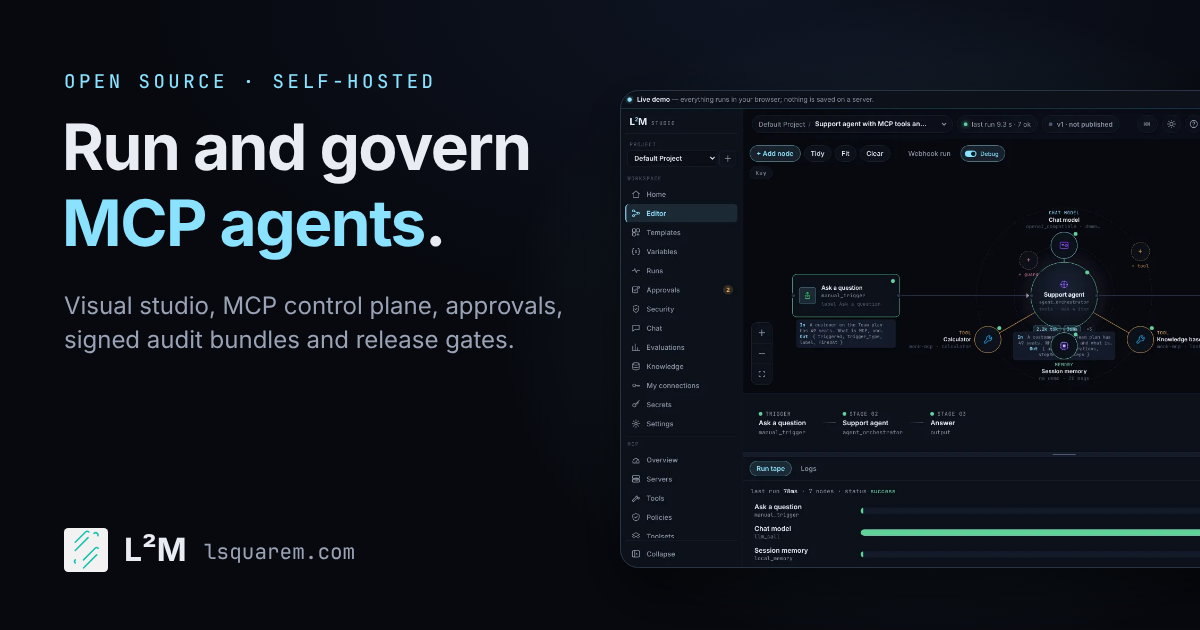
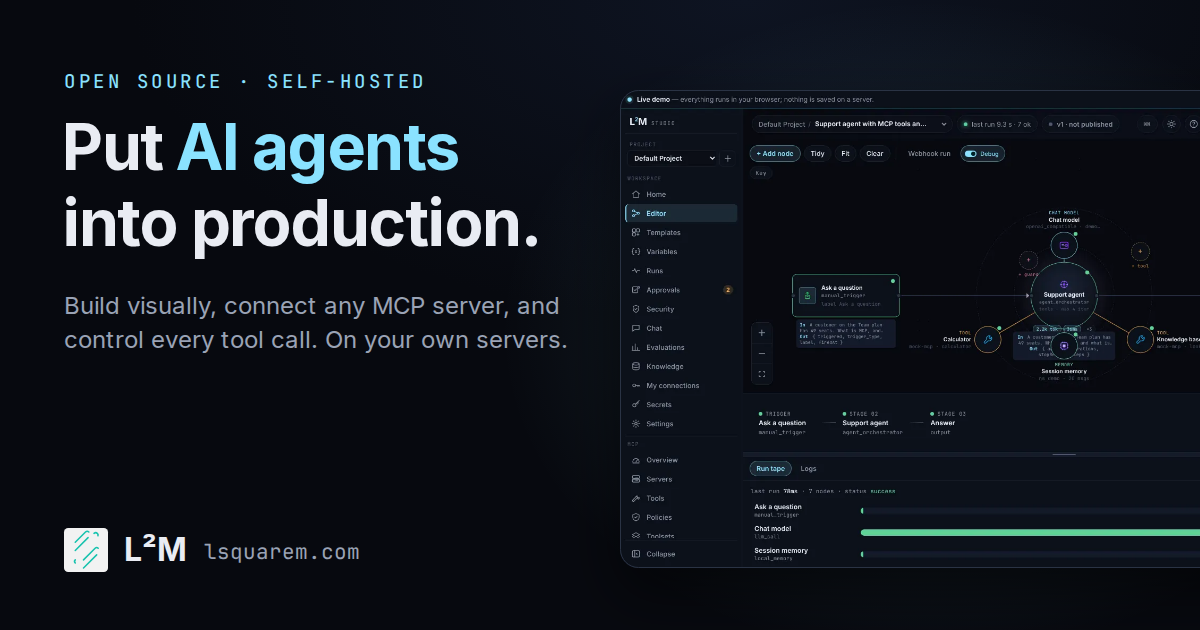
Site: put AI agents into production on your own servers, with the install command
New hero, title, Open Graph text, social card and JSON-LD; the install command
sits next to the live demo. An optional cookieless page counter (GoatCounter)
for the landing and the docs, off until a site code is set.

diff --git a/docs/index.html b/docs/index.html
@@ -3,24 +3,24 @@
   <head>
     <meta charset="UTF-8" />
     <meta name="viewport" content="width=device-width, initial-scale=1.0" />
-    <title>L2M: run and govern MCP agents, self-hosted</title>
-    <meta name="description" content="L2M is an open-source, self-hosted platform to build, run and govern MCP agents: MCP server governance, approvals, signed audit bundles and release gates." />
+    <title>L2M: put AI agents into production, on your own servers</title>
+    <meta name="description" content="Open-source, self-hosted orchestrator for AI agents: build visually, connect any MCP server, control every tool call with approvals, budgets and replays." />
     <link rel="canonical" href="https://lsquarem.com/" />
     <meta name="theme-color" content="#07090f" />
     <meta property="og:type" content="website" />
     <meta property="og:site_name" content="L2M" />
     <meta property="og:url" content="https://lsquarem.com/" />
-    <meta property="og:title" content="L2M: run and govern MCP agents, self-hosted" />
-    <meta property="og:description" content="Build MCP agents visually, run them, and govern every tool call: control plane, approvals, signed audit bundles and release gates. Open source, self-hosted. Live demo in your browser." />
+    <meta property="og:title" content="L2M: put AI agents into production, on your own servers" />
+    <meta property="og:description" content="L2M is an open-source, self-hosted orchestrator for putting AI agents into production safely: build them visually, connect any MCP server, and control every tool call with approvals, budgets and replay tests. Live demo in your browser." />
     <meta property="og:image" content="https://lsquarem.com/assets/social-card.png" />
     <meta property="og:image:width" content="1200" />
     <meta property="og:image:height" content="630" />
-    <meta property="og:image:alt" content="L2M: run and govern MCP agents, self-hosted. The L2M studio with an agent hub, its chat model, memory and MCP tools, and the run tape of a finished run." />
+    <meta property="og:image:alt" content="L2M: put AI agents into production, on your own servers. The L2M studio with an agent hub, its chat model, memory and MCP tools, and the run tape of a finished run." />
     <meta name="twitter:card" content="summary_large_image" />
-    <meta name="twitter:title" content="L2M: run and govern MCP agents, self-hosted" />
-    <meta name="twitter:description" content="Build MCP agents visually, run them, and govern every tool call. Open source, self-hosted. Live demo in your browser." />
+    <meta name="twitter:title" content="L2M: put AI agents into production, on your own servers" />
+    <meta name="twitter:description" content="Build AI agents visually, connect any MCP server, and control every tool call. Open source, self-hosted. Live demo in your browser." />
     <meta name="twitter:image" content="https://lsquarem.com/assets/social-card.png" />
-    <meta name="twitter:image:alt" content="L2M: run and govern MCP agents, self-hosted. The L2M studio with an agent hub, its chat model, memory and MCP tools, and the run tape of a finished run." />
+    <meta name="twitter:image:alt" content="L2M: put AI agents into production, on your own servers. The L2M studio with an agent hub, its chat model, memory and MCP tools, and the run tape of a finished run." />
     <link rel="icon" type="image/svg+xml" href="./assets/favicon.svg" />
     <link rel="alternate" type="application/atom+xml" title="L2M blog" href="https://lsquarem.com/docs/blog/feed.xml" />
     <script type="application/ld+json">
@@ -33,7 +33,7 @@
           "url": "https://lsquarem.com/",
           "name": "L2M",
           "alternateName": "L²M",
-          "description": "Run and govern MCP agents, self-hosted.",
+          "description": "Put AI agents into production, on your own servers.",
           "inLanguage": "en",
           "publisher": {
             "@id": "https://lsquarem.com/#organization"
@@ -54,11 +54,11 @@
           "name": "L2M",
           "alternateName": "L²M",
           "url": "https://lsquarem.com/",
-          "description": "An open-source, self-hosted studio and runtime for MCP agents: build them visually, run them with tool calling, and govern them with an MCP control plane, approvals, signed audit bundles and release gates.",
+          "description": "L2M is an open-source, self-hosted orchestrator for putting AI agents into production safely: build them visually, connect any MCP server, and control every tool call with approvals, budgets and replay tests.",
           "applicationCategory": "DeveloperApplication",
           "applicationSubCategory": "AI agent platform",
           "operatingSystem": "Linux",
-          "softwareRequirements": "Node.js 24+ and pnpm 10+, or Docker (linux/amd64, linux/arm64)",
+          "softwareRequirements": "Docker with Compose (linux/amd64, linux/arm64); Node.js 24+ and pnpm 10+ to build from source",
           "license": "https://opensource.org/licenses/MIT",
           "isAccessibleForFree": true,
           "offers": {
@@ -73,7 +73,9 @@
             "name": "L2M documentation",
             "url": "https://lsquarem.com/docs/"
           },
-          "downloadUrl": "https://github.com/TensorGreed/l2m",
+          "downloadUrl": "https://lsquarem.com/install.sh",
+          "installUrl": "https://lsquarem.com/docs/getting-started/install",
+          "softwareVersion": "0.1.0",
           "publisher": {
             "@id": "https://lsquarem.com/#organization"
           }
@@ -118,7 +120,7 @@
         <a class="brand" href="./">
           <img src="./assets/lsquarem-logo.svg" alt="" width="32" height="32" />
           <strong>L<sup>2</sup>M</strong>
-          <span class="brand-tag">MCP agents, governed</span>
+          <span class="brand-tag">AI agents in production</span>
         </a>
 
         <nav class="nav" id="siteNav" aria-label="Main">
@@ -161,9 +163,9 @@
             <li>Self-hosted only</li>
             <li>No call-home</li>
           </ul>
-          <h1 id="hero-title">The place your <span class="accent">MCP agents</span> run and are governed.</h1>
+          <h1 id="hero-title">Put <span class="accent">AI agents</span> into production, on your own servers.</h1>
           <p class="lead">
-            Build tool-calling agents in a visual studio, run them against your MCP servers, and decide what every tool call may do: policies, approvals, signed audit bundles and a release gate. It all runs on your own infrastructure.
+            L2M is an open-source, self-hosted orchestrator for putting AI agents into production safely: build them visually, connect any MCP server, and control every tool call with approvals, budgets and replay tests.
           </p>
           <div class="hero-actions">
             <a class="btn btn-primary btn-lg" href="./demo/">
@@ -172,7 +174,11 @@
             </a>
             <a class="btn btn-lg" href="./docs/">Read the docs</a>
           </div>
-          <p class="hero-note">Runs in your browser, no sign-up. Recorded runs; nothing leaves your browser.</p>
+          <div class="install-cmd" aria-label="Install on your own machine">
+            <code id="installCommand">curl -fsSL https://lsquarem.com/install.sh | sh</code>
+            <button class="btn btn-sm" type="button" data-copy-target="installCommand">Copy</button>
+          </div>
+          <p class="hero-note">The demo runs in your browser, no sign-up. To install, you need Docker; <a href="./docs/getting-started/install">read the script or use two commands instead</a>.</p>
         </div>
       </section>
 
@@ -397,18 +403,18 @@
         <div class="container split">
           <div>
             <span class="eyebrow">Get running</span>
-            <h2 id="gr-title">From clone to a working MCP agent.</h2>
-            <p class="lead">No model key is needed to start: the MCP Agent Quickstart template uses the built-in echo model and an in-process mock MCP server. Swap in real models and servers when you're ready.</p>
+            <h2 id="gr-title">From install to a working MCP agent.</h2>
+            <p class="lead">You need Docker, nothing else. No model key is needed to start: the starter templates and the MCP Agent Quickstart use built-in sample data, the echo model and a mock MCP server. Swap in real models and servers when you're ready.</p>
             <div class="hero-actions" style="justify-content: flex-start;">
               <a class="btn btn-primary" href="./docs/getting-started/build-your-first-mcp-agent">Follow the tutorial</a>
               <a class="btn" href="./demo/">Try the live demo first</a>
             </div>
           </div>
           <ol class="steps">
-            <li><div><code>git clone</code> the repository, then <code>pnpm install</code> (Node 24+, pnpm 10+).</div></li>
-            <li><div>Copy <code>.env.example</code> to <code>.env</code>, set <code>SECRET_MASTER_KEY_BASE64</code> and the bootstrap admin's email and password.</div></li>
-            <li><div><code>pnpm dev</code>, then sign in at <code>localhost:5173</code>.</div></li>
+            <li><div><code>curl -fsSL https://lsquarem.com/install.sh | sh</code> (or the <a href="./docs/getting-started/install">two-command install</a>).</div></li>
+            <li><div>Open <code>localhost:8080</code> and sign in as <code>admin@l2m.local</code> with the password the installer prints.</div></li>
             <li><div>Templates → <strong>MCP Agent Quickstart</strong> → Use template → Run.</div></li>
+            <li><div>To build from source instead: Node.js 24+ and pnpm 10+, see <a href="./docs/getting-started/run-from-source">Run from source</a>.</div></li>
           </ol>
         </div>
       </section>
@@ -432,7 +438,7 @@
 
     <footer class="footer">
       <div class="container footer-inner">
-        <div><strong>L<sup>2</sup>M</strong> · Run and govern MCP agents, self-hosted · <span id="year">2026</span></div>
+        <div><strong>L<sup>2</sup>M</strong> · Put AI agents into production, on your own servers · <span id="year">2026</span></div>
         <nav class="footer-links" aria-label="Footer">
           <a class="btn btn-primary" href="./demo/">Live demo</a>
           <a href="./docs/">Docs</a>
@@ -448,7 +454,7 @@
           <a href="https://github.com/TensorGreed/l2m" rel="noopener">GitHub</a>
           <a href="https://tensorgreed.com" rel="noopener">TensorGreed</a>
         </nav>
-        <p class="footer-note">This website (not the L2M product) uses Google Analytics, only after you accept cookies. <a href="#" data-cookie-settings>Cookie settings</a></p>
+        <p class="footer-note">This website (not the L2M product) uses Google Analytics, only after you accept cookies.<span class="site-counter-note"> It also counts page views without cookies (GoatCounter).</span> <a href="#" data-cookie-settings>Cookie settings</a></p>
       </div>
     </footer>
 

diff --git a/docs/integrations.html b/docs/integrations.html
@@ -15,12 +15,12 @@
     <meta property="og:image" content="https://lsquarem.com/assets/social-card.png" />
     <meta property="og:image:width" content="1200" />
     <meta property="og:image:height" content="630" />
-    <meta property="og:image:alt" content="L2M: run and govern MCP agents, self-hosted. The L2M studio with an agent hub, its chat model, memory and MCP tools, and the run tape of a finished run." />
+    <meta property="og:image:alt" content="L2M: put AI agents into production, on your own servers. The L2M studio with an agent hub, its chat model, memory and MCP tools, and the run tape of a finished run." />
     <meta name="twitter:card" content="summary_large_image" />
     <meta name="twitter:title" content="L2M integrations: built-in nodes and any MCP server" />
     <meta name="twitter:description" content="Chat models, agents, MCP tools, knowledge bases, app and database nodes, and signed triggers, built into L2M." />
     <meta name="twitter:image" content="https://lsquarem.com/assets/social-card.png" />
-    <meta name="twitter:image:alt" content="L2M: run and govern MCP agents, self-hosted. The L2M studio with an agent hub, its chat model, memory and MCP tools, and the run tape of a finished run." />
+    <meta name="twitter:image:alt" content="L2M: put AI agents into production, on your own servers. The L2M studio with an agent hub, its chat model, memory and MCP tools, and the run tape of a finished run." />
     <link rel="icon" type="image/svg+xml" href="./assets/favicon.svg" />
     <script type="application/ld+json">
     {
@@ -69,7 +69,7 @@
         <a class="brand" href="./">
           <img src="./assets/lsquarem-logo.svg" alt="" width="32" height="32" />
           <strong>L<sup>2</sup>M</strong>
-          <span class="brand-tag">MCP agents, governed</span>
+          <span class="brand-tag">AI agents in production</span>
         </a>
 
         <nav class="nav" id="siteNav" aria-label="Main">
@@ -242,7 +242,7 @@
 
     <footer class="footer">
       <div class="container footer-inner">
-        <div><strong>L<sup>2</sup>M</strong> · Run and govern MCP agents, self-hosted · <span id="year">2026</span></div>
+        <div><strong>L<sup>2</sup>M</strong> · Put AI agents into production, on your own servers · <span id="year">2026</span></div>
         <nav class="footer-links" aria-label="Footer">
           <a class="btn btn-primary" href="./demo/">Live demo</a>
           <a href="./docs/">Docs</a>
@@ -258,7 +258,7 @@
           <a href="https://github.com/TensorGreed/l2m" rel="noopener">GitHub</a>
           <a href="https://tensorgreed.com" rel="noopener">TensorGreed</a>
         </nav>
-        <p class="footer-note">This website (not the L2M product) uses Google Analytics, only after you accept cookies. <a href="#" data-cookie-settings>Cookie settings</a></p>
+        <p class="footer-note">This website (not the L2M product) uses Google Analytics, only after you accept cookies.<span class="site-counter-note"> It also counts page views without cookies (GoatCounter).</span> <a href="#" data-cookie-settings>Cookie settings</a></p>
       </div>
     </footer>
 

diff --git a/docs/site-consent.js b/docs/site-consent.js
@@ -1,10 +1,15 @@
-// Cookie consent for the lsquarem.com website (landing and docs) with Google Consent Mode v2.
+// Cookie consent for the lsquarem.com website (landing and docs) with Google Consent Mode v2, and an optional
+// cookieless page-view counter (GoatCounter).
 // The L2M product and the live demo do not load this file and send no analytics.
 // Nothing is requested from Google until the visitor accepts: gtag.js is injected on Accept
 // (or on a later visit when Accept was stored). Only analytics_storage is ever granted.
 (function () {
   "use strict";
   var GA_ID = "G-J3CBSHR723";
+  // GoatCounter site code (the <code> of https://<code>.goatcounter.com). Empty: nothing is loaded or counted.
+  // GoatCounter sets no cookies and stores no personal data, so it needs no consent; when it is on, the
+  // privacy notes on the landing and the docs say so (.site-counter-note, shown by the site-counter-on class).
+  var GOATCOUNTER_CODE = "";
   var KEY = "l2m-site-consent";
   var bar = null;
   var loaded = false;
@@ -138,6 +143,32 @@
     e.preventDefault();
     show(true);
   });
+
+  // Counts page views without cookies; the docs are a single-page app, so its in-page navigations count too.
+  function startCounter() {
+    if (!/^[a-z0-9-]{1,63}$/.test(GOATCOUNTER_CODE)) return;
+    document.documentElement.classList.add("site-counter-on");
+    var s = document.createElement("script");
+    s.async = true;
+    s.src = "https://gc.zgo.at/count.js";
+    s.setAttribute("data-goatcounter", "https://" + GOATCOUNTER_CODE + ".goatcounter.com/count");
+    document.head.appendChild(s);
+    var last = location.pathname + location.search;
+    function count() {
+      var path = location.pathname + location.search;
+      if (path === last || !window.goatcounter || !window.goatcounter.count) return;
+      last = path;
+      window.goatcounter.count({ path: path });
+    }
+    var push = history.pushState;
+    history.pushState = function () {
+      push.apply(this, arguments);
+      setTimeout(count, 0);
+    };
+    window.addEventListener("popstate", count);
+  }
+
+  startCounter();
 
   var saved = read();
   if (saved === "granted") grant();

diff --git a/docs/404.html b/docs/404.html
@@ -31,7 +31,7 @@
         <a class="brand" href="/">
           <img src="/assets/lsquarem-logo.svg" alt="" width="32" height="32" />
           <strong>L<sup>2</sup>M</strong>
-          <span class="brand-tag">MCP agents, governed</span>
+          <span class="brand-tag">AI agents in production</span>
         </a>
 
         <div class="topbar-actions">
@@ -62,7 +62,7 @@
 
     <footer class="footer">
       <div class="container footer-inner">
-        <div><strong>L<sup>2</sup>M</strong> · Run and govern MCP agents, self-hosted</div>
+        <div><strong>L<sup>2</sup>M</strong> · Put AI agents into production, on your own servers</div>
         <nav class="footer-links" aria-label="Footer">
           <a href="/docs/">Docs</a>
           <a href="/docs/learn/">Learn</a>
@@ -72,7 +72,7 @@
           <a href="/integrations.html">Integrations</a>
           <a href="https://github.com/TensorGreed/l2m" rel="noopener">GitHub</a>
         </nav>
-        <p class="footer-note">This website (not the L2M product) uses Google Analytics, only after you accept cookies. <a href="#" data-cookie-settings>Cookie settings</a></p>
+        <p class="footer-note">This website (not the L2M product) uses Google Analytics, only after you accept cookies.<span class="site-counter-note"> It also counts page views without cookies (GoatCounter).</span> <a href="#" data-cookie-settings>Cookie settings</a></p>
       </div>
     </footer>
 

diff --git a/docs/main.js b/docs/main.js
@@ -70,3 +70,21 @@ if (!("IntersectionObserver" in window) || reduceMotion) {
   );
   revealTargets.forEach((item) => observer.observe(item));
 }
+
+// "Copy" next to a command copies the text of the element its data-copy-target names.
+document.querySelectorAll("[data-copy-target]").forEach((button) => {
+  button.addEventListener("click", () => {
+    const target = document.getElementById(button.getAttribute("data-copy-target"));
+    if (!target || !navigator.clipboard) return;
+    navigator.clipboard.writeText(target.textContent.trim()).then(
+      () => {
+        button.textContent = "Copied";
+        setTimeout(() => (button.textContent = "Copy"), 1500);
+      },
+      () => {
+        // Clipboard refused (insecure context or permission): the command stays visible to copy by hand.
+      }
+    );
+  });
+});
+

diff --git a/apps/docs/docs/.vitepress/site/seo.ts b/apps/docs/docs/.vitepress/site/seo.ts
@@ -12,7 +12,7 @@ import { LEVEL_LABELS, trackById, type Level } from "./tracks.js";
 // The share card lives with the landing at the site root (source: scripts/social-card/).
 export const DEFAULT_SOCIAL_CARD = `${SITE}/assets/social-card.png`;
 export const DEFAULT_SOCIAL_CARD_ALT =
-  "L2M: run and govern MCP agents, self-hosted. The L2M studio with an agent hub, its chat model, memory and MCP tools, and the run tape of a finished run.";
+  "L2M: put AI agents into production, on your own servers. The L2M studio with an agent hub, its chat model, memory and MCP tools, and the run tape of a finished run.";
 
 const ORGANIZATION_ID = { "@id": `${SITE}/#organization` };
 const WEBSITE_ID = { "@id": `${SITE}/#website` };

diff --git a/apps/docs/docs/.vitepress/theme/index.ts b/apps/docs/docs/.vitepress/theme/index.ts
@@ -27,7 +27,9 @@ export default {
       "doc-after": () => h(HubDocFooter),
       "layout-bottom": () =>
         h("p", { class: "site-privacy-note" }, [
-          "This website (not the L2M product) uses Google Analytics, only after you accept cookies. ",
+          "This website (not the L2M product) uses Google Analytics, only after you accept cookies.",
+          h("span", { class: "site-counter-note" }, " It also counts page views without cookies (GoatCounter)."),
+          " ",
           h("a", { href: "#", "data-cookie-settings": "" }, "Cookie settings")
         ])
     });

diff --git a/apps/docs/docs/.vitepress/theme/custom.css b/apps/docs/docs/.vitepress/theme/custom.css
@@ -62,3 +62,12 @@
     display: block !important;
   }
 }
+
+/* The privacy note's GoatCounter sentence shows only while the counter is on (docs/site-consent.js). */
+.site-counter-note {
+  display: none;
+}
+
+.site-counter-on .site-counter-note {
+  display: inline;
+}

diff --git a/apps/docs/docs/index.md b/apps/docs/docs/index.md
@@ -1,14 +1,17 @@
 ---
 layout: home
-title: "L2M documentation: run and govern MCP agents, self-hosted"
+title: "L2M docs: put AI agents into production, self-hosted"
 titleTemplate: false
-description: "Docs for L2M, the open-source, self-hosted studio and runtime to build, run and govern MCP agents: tutorials, MCP control plane, approvals, audit, API."
+description: "Docs for L2M, the open-source, self-hosted orchestrator for AI agents: install, tutorials, MCP servers and gateway, approvals, replay tests, API."
 hero:
   name: L2M
-  text: The MCP-native agent runtime
-  tagline: Visual workflow builder, multi-agent Swarm, and a VS Code surface — for developers composing AI agents that do real work in real systems via the Model Context Protocol.
+  text: Put AI agents into production, on your own servers
+  tagline: An open-source, self-hosted orchestrator for AI agents and workflows. Build them visually, connect any MCP server, and control every tool call with approvals, budgets and replay tests.
   actions:
     - theme: brand
+      text: Install with Docker
+      link: /getting-started/install
+    - theme: alt
       text: Build your first MCP agent (5 min)
       link: /getting-started/build-your-first-mcp-agent
     - theme: alt
